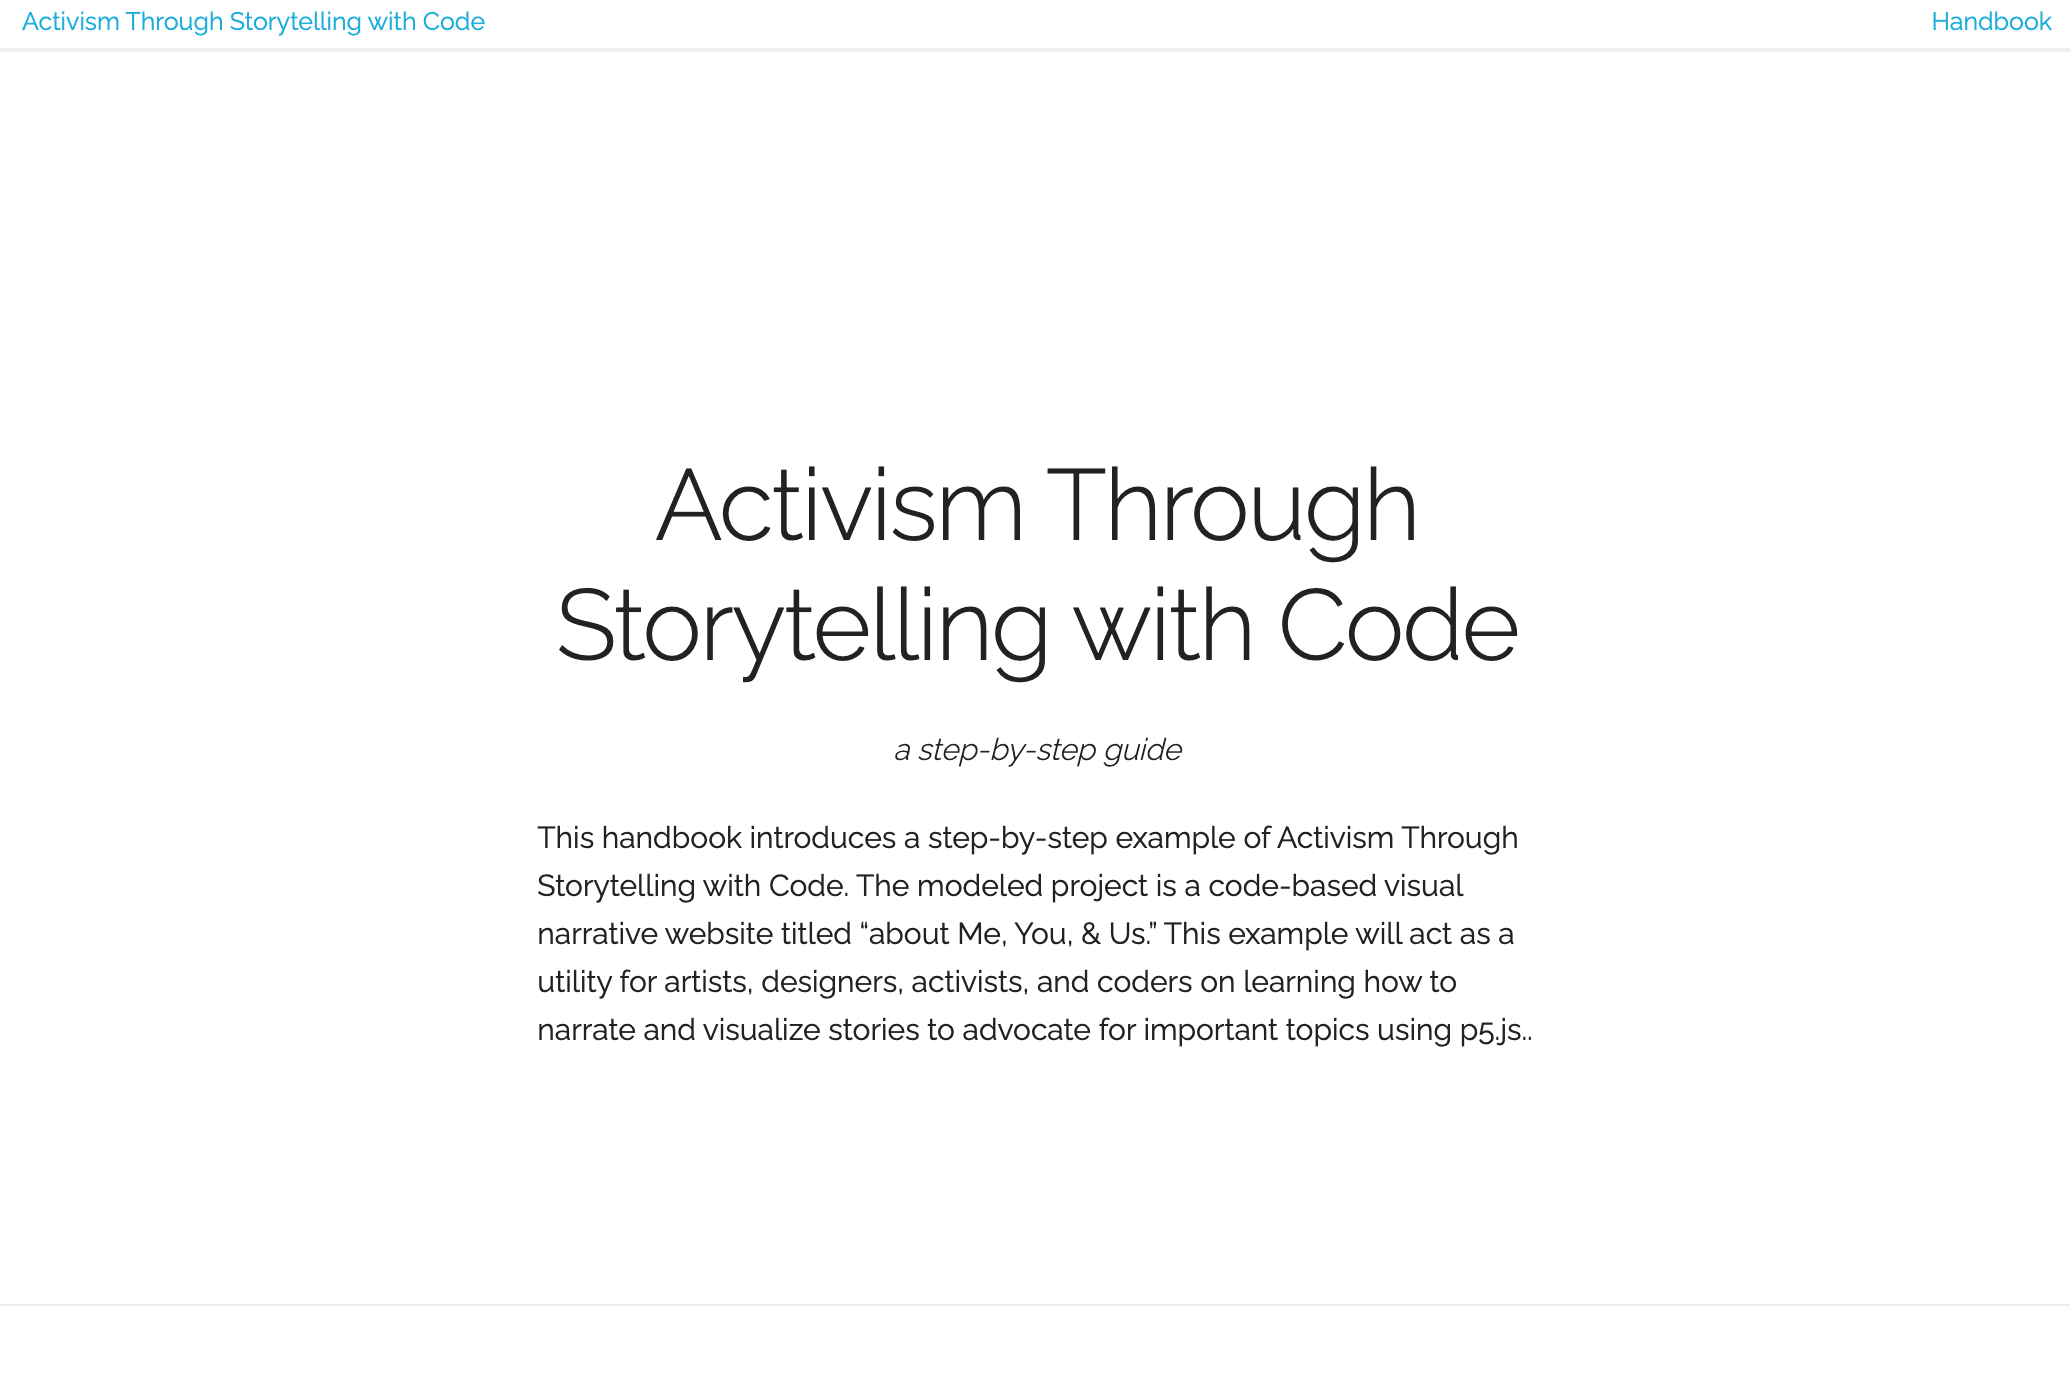
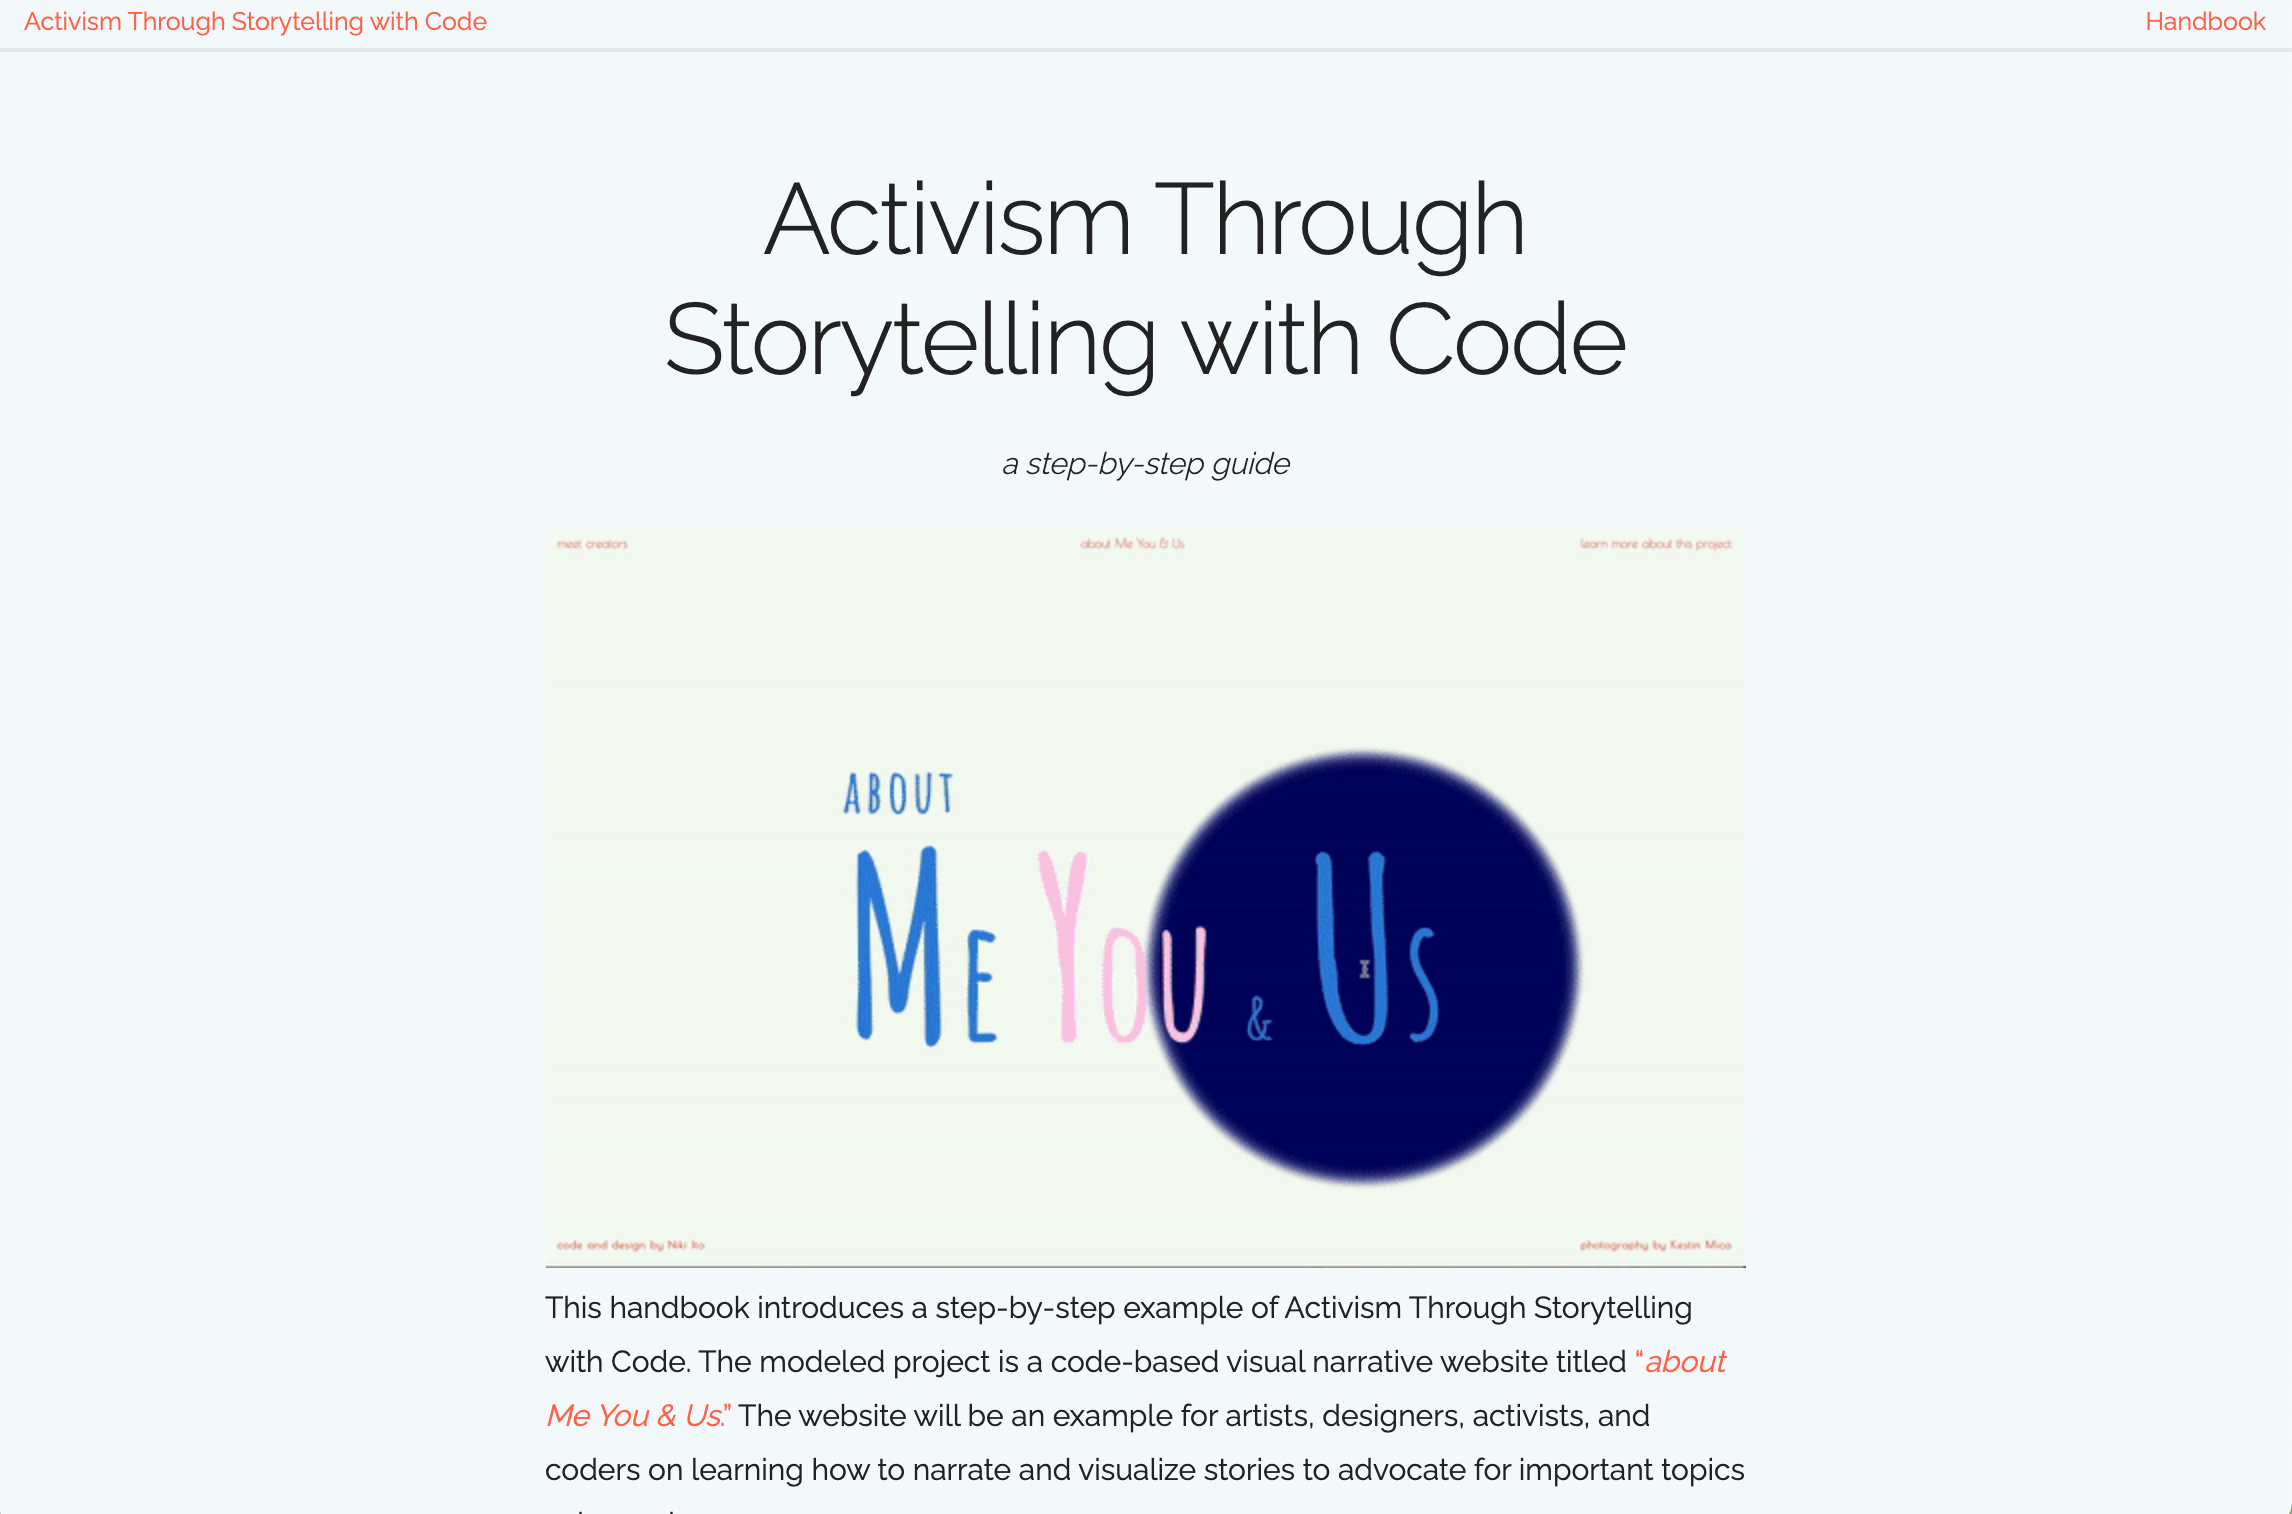
Add gif in handbook

diff --git a/handbook/handbook.html b/handbook/handbook.html
@@ -70,16 +70,16 @@
                     <div class="section-description">
                         <h4>Conceptual</h4>
                         <ul>
-                            <li><span class="key-dropdown">Find my own way of Activism</span>
-                                <p class="key-dropdown-content">I realized that it was important for me to find my own way of activism and helping the
+                            <li><span class="key-dropdown__bold">Find my own way of Activism</span>
+                                <p>I realized that it was important for me to find my own way of activism and helping the
                                     community. Activism that is on the front-line and works directly with associated
                                     organizations may have a more significant outcome but I felt that I was personally drawn
                                     to actions that were more personal. Such as, an action of sharing Individual stories and
                                     building intimate relationships to understand and advocate for a larger cause. Through
                                     being honest with my interest and comfort-level, I was able to find opportunities and
                                     build relationships that came more naturally to me.</p></li>
-                            <li><span class="key-dropdown">Receive advice from people you look up to</span> 
-                                <p class="key-dropdown-content">I found that it is important to have open conversations with people I trust and admire
+                            <li><span class="key-dropdown__bold">Receive advice from people you look up to</span> 
+                                <p>I found that it is important to have open conversations with people I trust and admire
                                     to support and nurture my project. It was my first community-based and collaborative
                                     project. I often felt lost and confused about my purpose and strategies. I realized that
                                     I think more clearly through open dialogue with others. Having the right people to talk
@@ -87,8 +87,8 @@
                         </ul>
                         <h4>Technical</h4>
                         <ul>
-                            <li><span class="key-dropdown">Develop troubleshooting steps</span>
-                                <p class="key-dropdown-content">I have developed a series of troubleshooting strategies. When you are stuck with a
+                            <li><span class="key-dropdown__bold">Develop troubleshooting steps</span>
+                                <p>I have developed a series of troubleshooting strategies. When you are stuck with a
                                 coding issue in your p5.js sketch, first check the console for any error messages. If
                                 you don’t understand what they mean, it helps to look them up on the internet and in
                                 most cases, other people have experienced the same issue. Due to my lack of experience,
@@ -96,20 +96,20 @@
                                 would do as much as I can on my own but if I still have trouble, I would ask my mentor
                                 or other experienced coders and I found that there are no issues that cannot be solved.</p>
                             </li>
-                            <li><span class="key-dropdown">Document coding issues and contribute to open-source</span>
-                                <p class="key-dropdown-content">I learned that it is important to keep track of the issues I’ve had and make a record of
+                            <li><span class="key-dropdown__bold">Document coding issues and contribute to open-source</span>
+                                <p>I learned that it is important to keep track of the issues I’ve had and make a record of
                                 what happened, what appeared in the console, and how I fixed it. I used GitHub issues to
                                 create these posts which can also contribute to open-source and help others solve
                                 similar problems.</p>
                                 </li>
-                            <li><span class="key-dropdown">Learn to organize and explain your code</span>
-                                <p class="key-dropdown-content">It was a challenge to program while keeping in mind that it should be easy for others to
+                            <li><span class="key-dropdown__bold">Learn to organize and explain your code</span>
+                                <p>It was a challenge to program while keeping in mind that it should be easy for others to
                                 understand. As a beginner, the code could often be long, tedious, and confusing to
                                 understand. In open-source programming, learning to code not only for yourself but for
                                 others is an important skill to develop.</p>
                                 </li>
-                            <li><span class="key-dropdown">Utilize GitHub</span>
-                                <p class="key-dropdown-content">I enjoyed using GitHub to store, record, and host my project and websites. I had no idea
+                            <li><span class="key-dropdown__bold">Utilize GitHub</span>
+                                <p>I enjoyed using GitHub to store, record, and host my project and websites. I had no idea
                                 what GitHub was for at the beginning of this project. In time, I learned how to create
                                 project repositories, post issues, create branches, record project histories, and host
                                 my website for free with GitHub pages. It is a great way to be a part of the programming

diff --git a/handbook/index.html b/handbook/index.html
@@ -53,6 +53,7 @@
                 <div class="twelve column" style="margin-top: 15%">
                     <h1 class="section-heading">Activism Through Storytelling with Code</h1>
                     <h6 class="section-heading"><i>a step-by-step guide</i></h6>
+                    <img src="../assets/images/handbook/visual-narrative_gif.gif" alt="this is an animated gif image but does not move">
                     <p class="section-description">This handbook introduces a step-by-step example of Activism Through
                         Storytelling with Code. The modeled project is a code-based visual narrative website titled
                         <a href="../index.html" target="_blank">“<i>about Me You & Us</i>.”</a> The website will be an example for artists, designers, activists,
